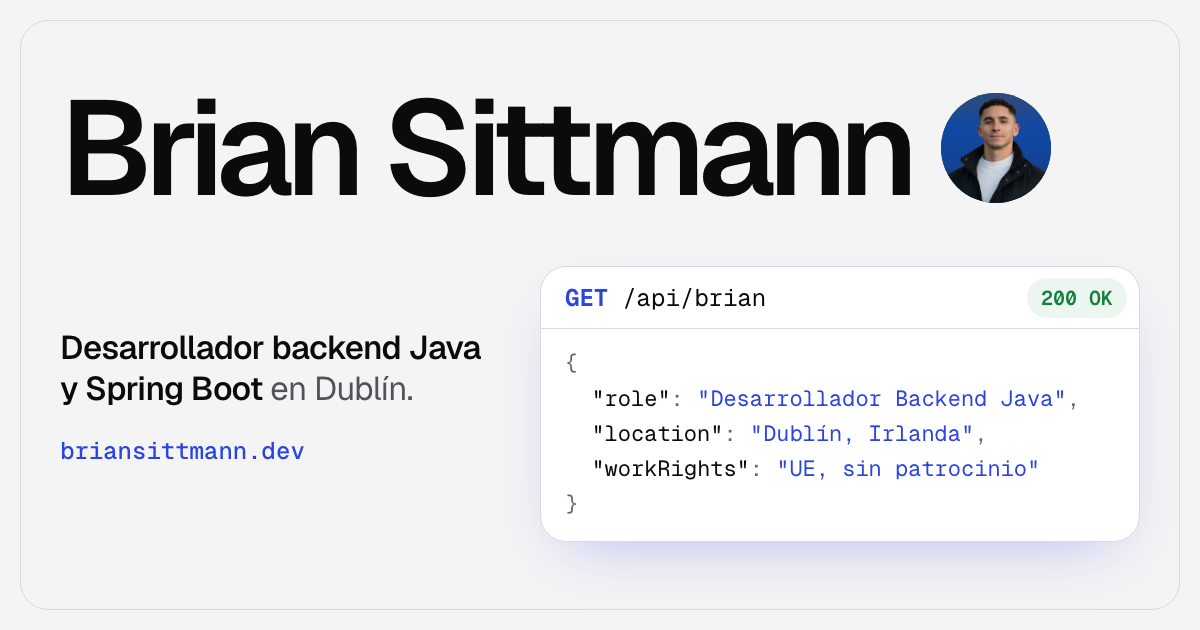
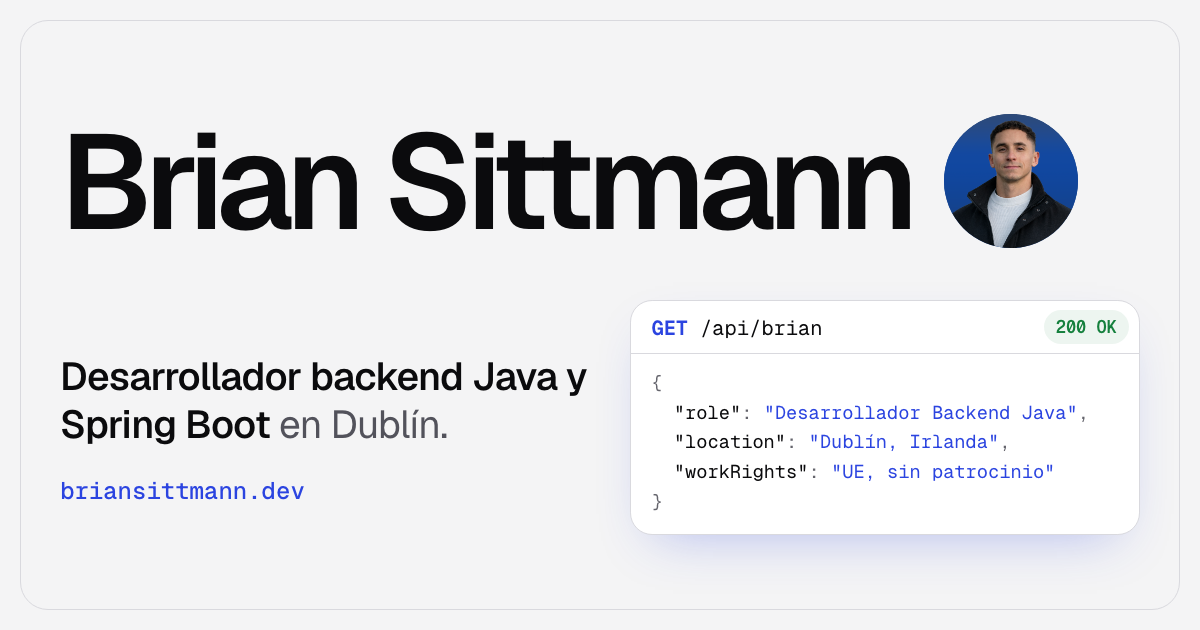
feat: centre the portrait on the name in the Open Graph image
The portrait becomes a larger circle centred on the capitals, the API card
is 15% smaller and the intro beside it larger.

diff --git a/design/og/og.html b/design/og/og.html
@@ -15,21 +15,26 @@ body{font-family:Geist,sans-serif;-webkit-font-smoothing:antialiased;color:#0b0b
 /* Thin frame like the site's bordered column. */
 body::after{content:"";position:absolute;inset:20px;border:1px solid #d9d9de;border-radius:28px;pointer-events:none}
 
-h1{display:flex;align-items:center;gap:.16em;font-size:134px;line-height:.9;font-weight:600;letter-spacing:-.055em;padding-bottom:.06em}
-/* The portrait closes the line, as a circle a little taller than the capitals. */
-.pill{display:inline-block;height:.82em;width:.82em;border-radius:50%;overflow:hidden;flex-shrink:0;margin-left:.06em;
+h1{display:flex;align-items:baseline;gap:.16em;font-size:134px;line-height:.9;font-weight:600;letter-spacing:-.055em;padding-bottom:.06em}
+/*
+  The portrait closes the line as a 1em circle, centred on the capitals: Geist caps are 0.71em tall, so the
+  circle sits on the baseline and drops by half its size minus half the cap height.
+*/
+.pill{display:block;position:relative;top:calc(.5em - .355em);height:1em;width:1em;border-radius:50%;overflow:hidden;flex-shrink:0;margin-left:.08em;
   background:linear-gradient(#2e4a79,#1447a0)}
-.pill img{width:100%;height:100%;object-fit:cover;object-position:50% 8%;transform:scale(1.06)}
+.pill img{display:block;width:100%;height:100%;object-fit:cover;object-position:50% 8%;transform:scale(1.06)}
 
-.row{display:grid;grid-template-columns:1fr 600px;gap:40px;align-items:start}
-/* The intro starts where the card's request bar ends. */
-.lead{padding-top:62px}
-.intro{font-size:33px;line-height:1.22;letter-spacing:-.02em;color:#52525b}
+.row{display:grid;grid-template-columns:1fr 510px;gap:40px;align-items:start}
+/* The intro starts where the card's request bar ends (62px at the card's 0.85 zoom). */
+.lead{padding-top:53px}
+.intro{font-size:39px;line-height:1.22;letter-spacing:-.02em;color:#52525b}
 .intro strong{font-weight:550;color:#0b0b0d}
 .url{margin-top:26px;font-family:"Geist Mono",monospace;font-size:24px;color:#2b44e0;font-weight:500}
 
 .card{background:#fff;border:1px solid #d9d9de;border-radius:26px;box-shadow:0 24px 60px -28px rgb(43 68 224/.35);
-  font-family:"Geist Mono",monospace;overflow:hidden}
+  font-family:"Geist Mono",monospace;overflow:hidden;
+  /* Drawn at 600px and scaled to 510, so the code keeps its proportions. */
+  width:600px;zoom:.85}
 .bar{display:flex;align-items:center;gap:14px;height:62px;padding:0 12px 0 24px;border-bottom:1px solid #d9d9de;font-size:24px}
 .get{color:#2b44e0;font-weight:650}
 .ok{margin-left:auto;font-size:20px;font-weight:600;color:#15803d;background:#15803d14;border-radius:999px;padding:7px 14px}
